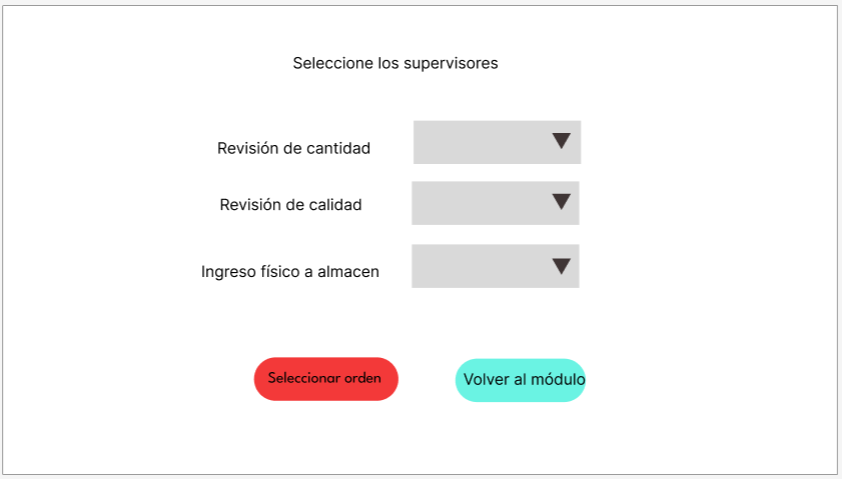
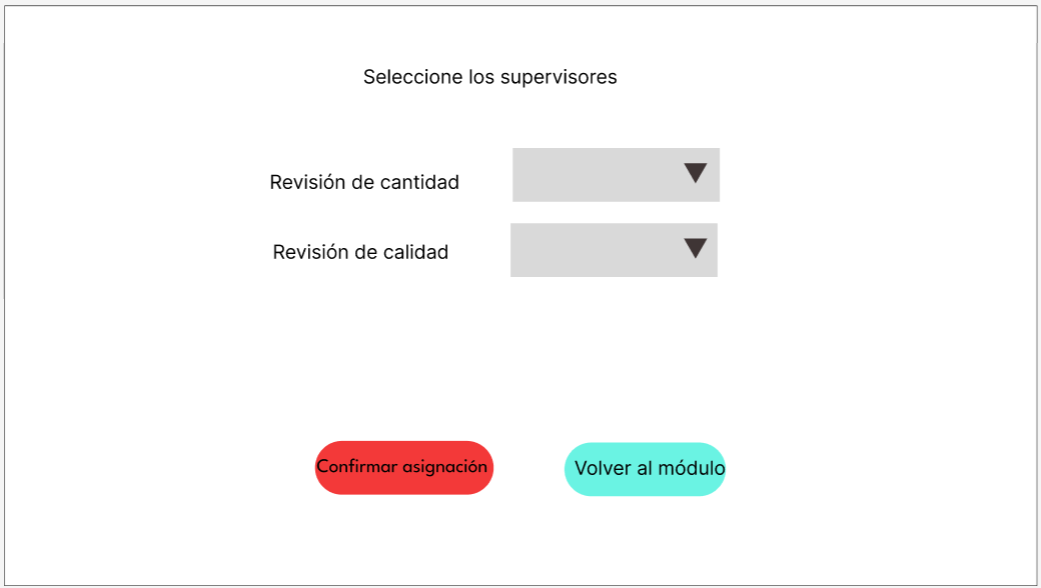
supervicion

diff --git a/8/8.1/8.1.md b/8/8.1/8.1.md
@@ -209,12 +209,24 @@ where oc.cod_ordencompra = <1>
 ### Generación de Revision_Cantidad y Revision_Calidad
 ![alt text](../8.1/Imagenes_modulo5/SeleccionSupervisores.png)
 
+- Botón "Desplegar lista" (el triángulo):
+```sql
+select 
+e.codigo_empleado,
+CONCAT(e.primer_nombre,' ', e.primer_apellido,' ', e.segundo_apellido) as "Nombre"
+from empleado e 
+inner join posee p on p.codigo_empleado = e.codigo_empleado 
+where p.cod_habilidad = 6
+and e.cod_local = <1>
+```
+
+- Botón confirmar asignaciones:
 ```sql
 INSERT INTO Revision_Cantidad (cod_ordencompra, cod_insumo, cantidad_revisada, fecha_revision, cod_supervisor)
 SELECT 
     oci.cod_ordencompra,
     oci.cod_insumo,
-    0,                      
+    NULL,                      
     NULL,      
     <1>   
 FROM 
@@ -224,6 +236,8 @@ WHERE
 
 ```
 
+<1> es el código del empleado asignado como supervisor de la revisión de la cantidad, <2> es el código de la orden de compra
+
 
 ```sql
 INSERT INTO Revision_Calidad (Cod_ordencompra, Cod_insumo, Cod_calidad, fecha_revision, Cod_supervisor, descripcion)
@@ -232,14 +246,14 @@ SELECT
     oci.cod_insumo,
     NULL,
     null,
-    103,
+    <1>,
     NULL
 FROM 
     Orden_comprainsumo oci
 WHERE 
-    oci.cod_ordencompra = 16;
+    oci.cod_ordencompra = <2>;
 ```
-
+<1> es el código del empleado asignado como supervisor de la revisión de la cantidad, <2> es el código de la orden de compra
 
 ### Revisión cantidad
 
